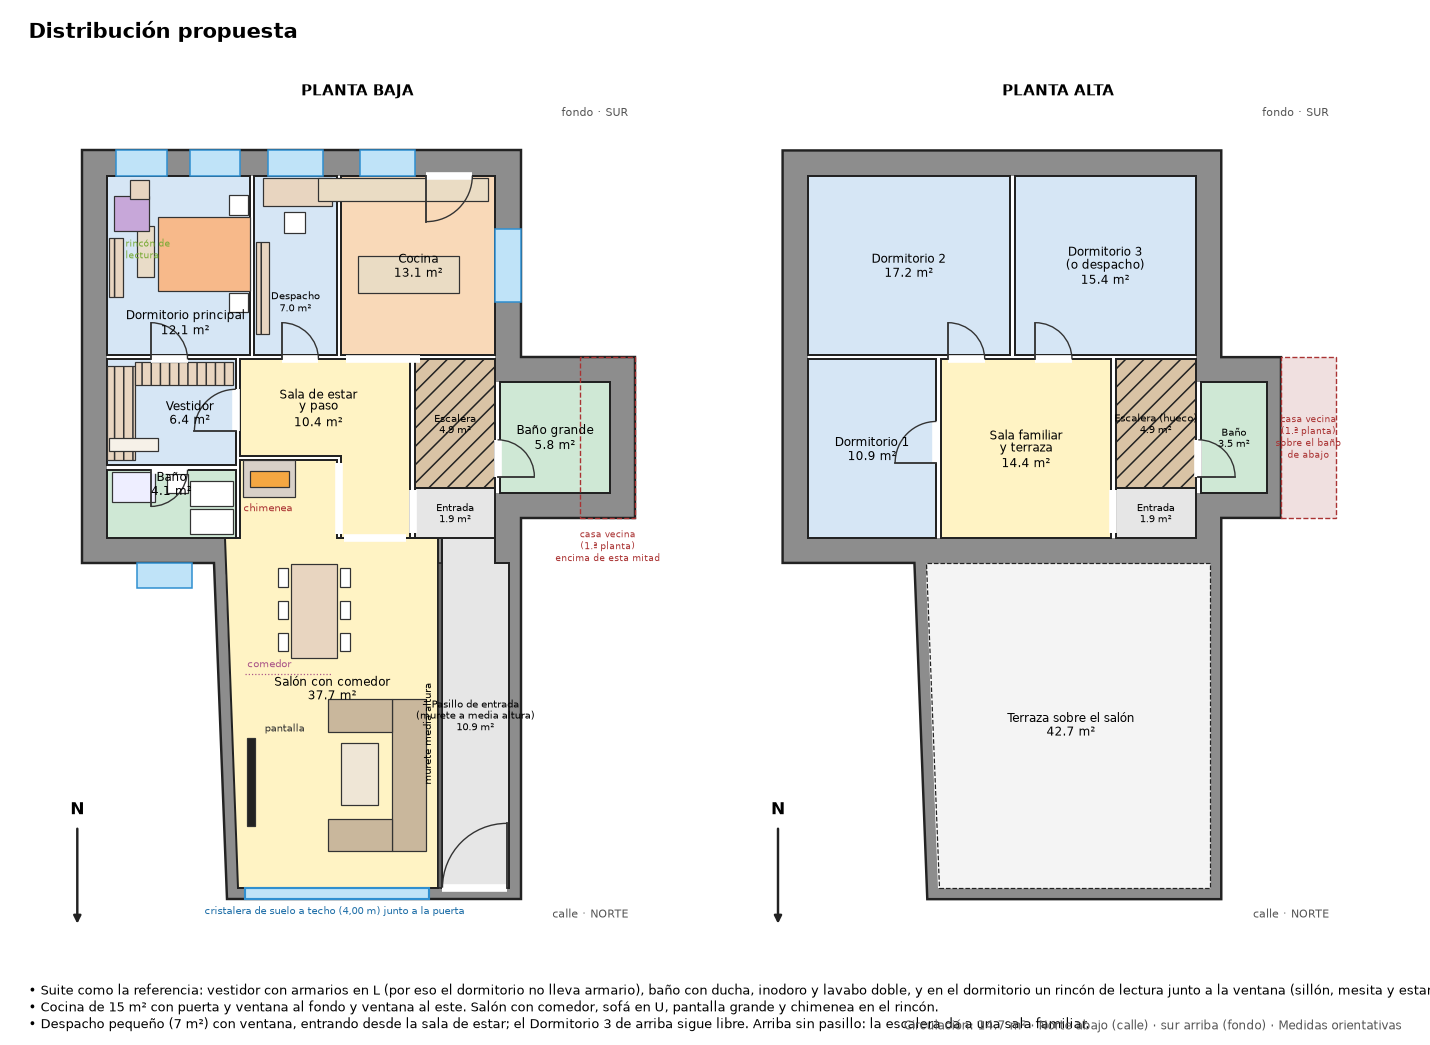
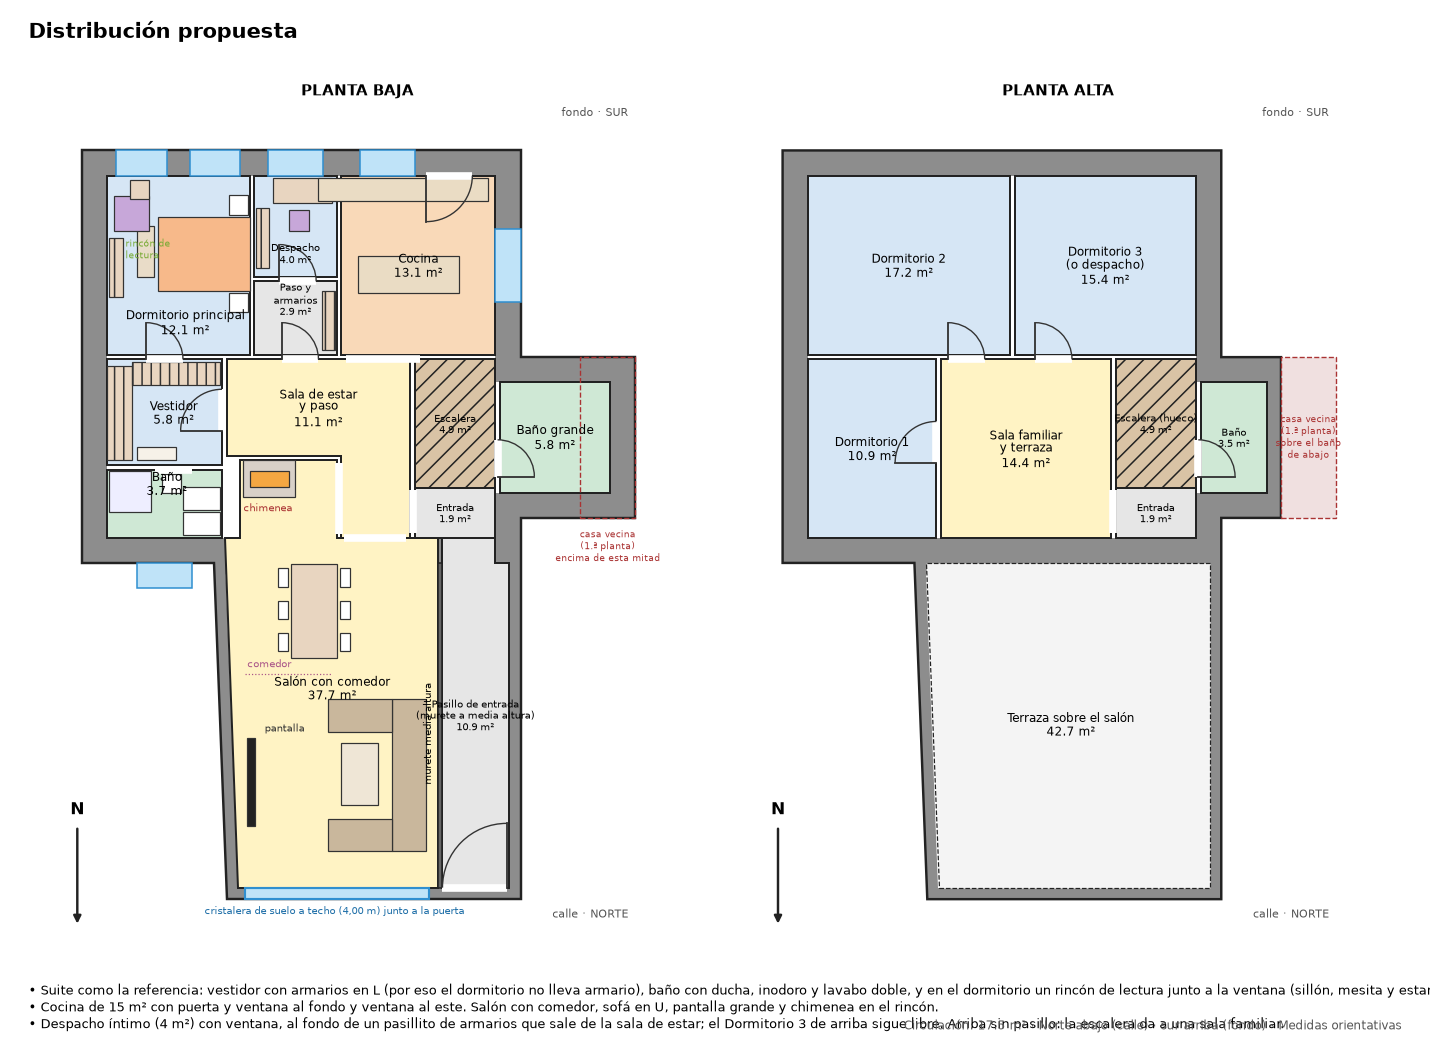
Suite compacta: vestidor 5,8, baño 3,7, despacho íntimo 4 m²
Claude-Session: https://claude.ai/code/session_01GrFzVPJDRJqirwnmNdffa5

diff --git a/casa3d/opciones.py b/casa3d/opciones.py
@@ -20,20 +20,21 @@ def R(x0, y0, x1, y1): return [(x0, y0), (x1, y0), (x1, y1), (x0, y1)]
 # salón: se adelanta un poco hacia la sala de estar (rincón de la chimenea)
 SALON_PB = [(3.40, 0.25), (7.75, 0.25), (7.75, 7.87), (5.55, 7.87), (5.55, 9.55), (3.45, 9.55), (3.45, 7.87), (3.12, 7.87)]
 SALON_PA = [(3.40, 0.25), (9.30, 0.25), (9.30, 7.32), (3.12, 7.32)]
-HUB = [(3.45, 9.65), (5.65, 9.65), (5.65, 7.87), (7.15, 7.87), (7.15, 11.75), (3.45, 11.75)]
+HUB = [(3.15, 9.65), (5.65, 9.65), (5.65, 7.87), (7.15, 7.87), (7.15, 11.75), (3.15, 11.75)]
 
 PB = [("Salón con comedor", "sala", SALON_PB, (5.45, 4.6)), ("Pasillo de entrada\n(murete a media altura)", "circ", [(7.85, 0.25), (9.30, 0.25), (9.30, 7.32), (9.00, 7.32), (9.00, 7.87), (7.85, 7.87)]),
       ("Entrada", "circ", R(7.25, 7.87, 9.00, 8.95)), ("Escalera", "esc", R(7.25, 8.95, 9.00, 11.75)), ("Baño grande", "humedo", R(9.10, 8.85, 11.50, 11.25)),
-      ("Sala de estar\ny paso", "sala", HUB, (5.15, 10.7)), ("Cocina", "cocina", R(5.65, 11.85, 9.00, 15.75)), ("Despacho", "priv", R(3.75, 11.85, 5.55, 15.75), (4.65, 13.0)),
-      ("Dormitorio principal", "priv", R(0.55, 11.85, 3.65, 15.75), (2.25, 12.55)), ("Vestidor", "priv", R(0.55, 9.45, 3.35, 11.75), (2.35, 10.6)),
-      ("Baño", "humedo", R(0.55, 7.87, 3.35, 9.35), (1.95, 9.05))]
+      ("Sala de estar\ny paso", "sala", HUB, (5.15, 10.7)), ("Cocina", "cocina", R(5.65, 11.85, 9.00, 15.75)), ("Despacho", "priv", R(3.75, 13.55, 5.55, 15.75), (4.65, 14.05)), ("Paso y\narmarios", "circ", R(3.75, 11.85, 5.55, 13.45), (4.65, 13.05)),
+      ("Dormitorio principal", "priv", R(0.55, 11.85, 3.65, 15.75), (2.25, 12.55)), ("Vestidor", "priv", R(0.55, 9.45, 3.05, 11.75), (2.0, 10.6)),
+      ("Baño", "humedo", R(0.55, 7.87, 3.05, 9.35), (1.85, 9.05))]
 PB_DOORS = [(7.85, 0.25, "H", 1.40, 1, 1),            # puerta de entrada de 1,40, pegada al muro este, abre hacia dentro
             (9.05, 9.20, "V", 0.80, 0, 1), (5.75, 11.75, "H", 1.60, 0, 0),
             (4.35, 11.75, "H", 0.80, 0, 1),            # sala -> despacho
 
-            (3.35, 10.20, "V", 0.90, 0, -1),           # de la sala directamente al vestidor
-            (1.50, 9.35, "H", 0.80, 0, -1),            # vestidor -> baño (a la izquierda)
-            (1.50, 11.75, "H", 0.80, 0, 1),            # vestidor -> dormitorio (a la derecha)
+            (3.05, 10.20, "V", 0.90, 0, -1),           # de la sala directamente al vestidor
+            (1.60, 9.35, "H", 0.80, 0, 0),            # vestidor -> baño (corredera)
+            (1.40, 11.75, "H", 0.80, 0, 1),
+            (4.30, 13.45, "H", 0.80, 0, 1),            # vestidor -> dormitorio (a la derecha)
             (7.50, 15.75, "H", 1.00, 0, -1)]           # cocina -> patio del fondo
 PB_OPEN = [(5.60, 7.95, 5.60, 9.50), (5.70, 7.87, 7.05, 7.87), (7.20, 7.97, 7.20, 8.90)]
 VENTANAS = [(0.75, 15.75, 1.10), (2.35, 15.75, 1.10), (4.05, 15.75, 1.20), (6.05, 15.75, 1.20), (1.20, 7.32, 1.20)]      # (x, y de la cara interior del muro, ancho)
@@ -81,10 +82,11 @@ def muebles_pb(ax):
     r(ax, 0.60, 13.10, 0.30, 1.30, "#e8d5c0", "||")                                                              # estantería del rincón de lectura
     r(ax, 0.70, 14.55, 0.75, 0.75, "#c7a7d9"); r(ax, 1.05, 15.25, 0.40, 0.40, "#e8d5c0"); ax.text(0.95, 14.40, "rincón de\nlectura", fontsize=5.6, color="#7a3", ha="left", va="top", zorder=12)   # sillón y mesita junto a la ventana
     # despacho pequeño: mesa bajo la ventana, silla y estantes en la pared
-    r(ax, 3.95, 15.10, 1.50, 0.60, "#e8d5c0"); r(ax, 4.40, 14.50, 0.45, 0.45); r(ax, 3.80, 12.30, 0.28, 2.00, "#e8d5c0", "||")
-    r(ax, 0.55, 9.55, 0.60, 2.05, "#e8d5c0", "||"); r(ax, 1.15, 11.20, 2.15, 0.50, "#e8d5c0", "||")              # vestidor: armarios en L
-    r(ax, 0.60, 9.75, 1.05, 0.30, "#f6f1e8")                                                                     # alfombra / banco
-    r(ax, 0.65, 8.65, 0.95, 0.65, "#eef"); r(ax, 1.85, 8.85, 0.45, 0.40); r(ax, 2.35, 7.95, 0.95, 0.55); r(ax, 2.35, 8.55, 0.95, 0.55)   # ducha, inodoro, doble lavabo
+    r(ax, 4.15, 15.15, 1.30, 0.55, "#e8d5c0"); r(ax, 4.50, 14.55, 0.45, 0.45, "#c7a7d9"); r(ax, 3.80, 13.75, 0.28, 1.30, "#e8d5c0", "||")
+    r(ax, 5.22, 11.95, 0.28, 1.30, "#e8d5c0", "||")   # armario del paso
+    r(ax, 0.55, 9.55, 0.55, 2.05, "#e8d5c0", "||"); r(ax, 1.10, 11.20, 1.90, 0.50, "#e8d5c0", "||")              # vestidor: armarios en L
+    r(ax, 1.20, 9.55, 0.85, 0.30, "#f6f1e8")                                                                     # alfombra / banco
+    r(ax, 0.60, 8.42, 0.90, 0.90, "#eef"); r(ax, 1.75, 8.85, 0.40, 0.40); r(ax, 2.20, 7.92, 0.80, 0.50); r(ax, 2.20, 8.47, 0.80, 0.50)   # ducha, inodoro, doble lavabo
     # cocina: isla y fregadero junto a la fachada del fondo
     r(ax, 6.0, 13.2, 2.2, 0.8, "#eadcc4"); r(ax, 5.15, 15.2, 3.7, 0.5, "#eadcc4")
 
@@ -123,7 +125,7 @@ def dibujar(ax, rooms, doors, planta, abiertos=()):
 
 IDEAS = ["Suite como la referencia: vestidor con armarios en L (por eso el dormitorio no lleva armario), baño con ducha, inodoro y lavabo doble, y en el dormitorio un rincón de lectura junto a la ventana (sillón, mesita y estantería).",
          "Cocina de 15 m² con puerta y ventana al fondo y ventana al este. Salón con comedor, sofá en U, pantalla grande y chimenea en el rincón.",
-         "Despacho pequeño (7 m²) con ventana, entrando desde la sala de estar; el Dormitorio 3 de arriba sigue libre. Arriba sin pasillo: la escalera da a una sala familiar."]
+         "Despacho íntimo (4 m²) con ventana, al fondo de un pasillito de armarios que sale de la sala de estar; el Dormitorio 3 de arriba sigue libre. Arriba sin pasillo: la escalera da a una sala familiar."]
 
 if __name__ == "__main__":
     fig = plt.figure(figsize=(13, 9.5)); fig.suptitle("Distribución propuesta", fontsize=14, weight="bold", x=0.02, ha="left")
@@ -132,6 +134,8 @@ if __name__ == "__main__":
     fig.text(0.02, 0.06, "\n".join("• " + t for t in IDEAS), fontsize=8.6, va="top")
     fig.text(0.98, 0.012, f"Circulación: {c1 + c2:.1f} m² · Norte abajo (calle) · sur arriba (fondo) · Medidas orientativas", fontsize=8, va="bottom", ha="right", color="#555")
     fig.savefig("distribucion.png", dpi=110)
+    for room in PB:
+        b=Polygon(room[2]).bounds; print(f"{room[0].splitlines()[0]:22s} {b[2]-b[0]:.2f} x {b[3]-b[1]:.2f} = {area(room[2]):.1f} m²")
     print(f"circulación {c1 + c2:.1f} m²; útil PB {t1:.1f}, PA {t2:.1f}")
 
 
@@ -151,7 +155,7 @@ def suite_png():
         except Exception: pass
     for t in ax.texts:
         if t.get_text() in ("Escritorio","Ducha","Armarios en L","Cama 1,60 × 2,00"): t.set_visible(False)
-    ax.set_title("Suite principal (detalle): dormitorio 12 m², vestidor 6,4 m², baño 4,1 m², despacho 7 m²", fontsize=11, weight="bold")
+    ax.set_title("Suite principal (detalle): dormitorio 12 m², vestidor 5,8 m², baño 3,7 m², despacho 4 m²", fontsize=11, weight="bold")
     fig.savefig("suite.png", dpi=120, bbox_inches="tight"); plt.close(fig)
 
 if __name__ == "__main__": suite_png()
